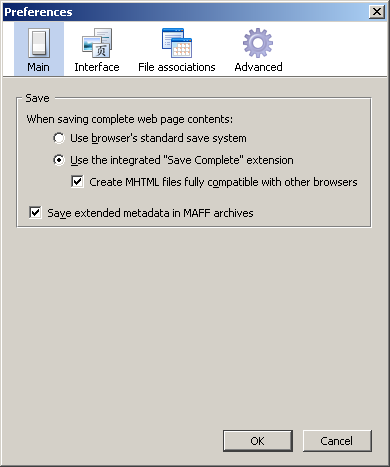
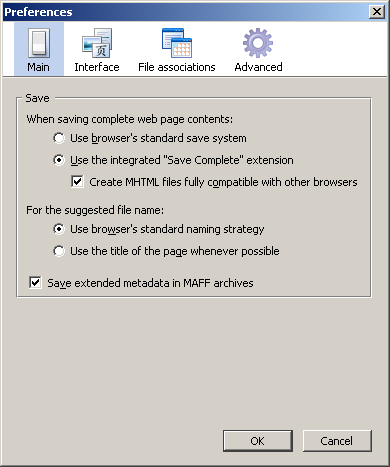
Update documentation for MAF version 0.16.1

Changed region(s): [[0.0308, 0.4197, 0.9538, 0.6595], [0.4308, 0.5396, 0.4615, 0.5696]]

diff --git a/www/documentation.html b/www/documentation.html
@@ -148,6 +148,8 @@
   <dt><a href="https://addons.mozilla.org/firefox/addon/834">File Title</a>, by
    Pavel Cvrcek</dt>
   <dd>
+    <p><i>The functionality of the File Title extension is also available from
+     the MAF <a href="#main">preferences</a>.</i></p>
     <p>This extension replaces the default file name suggested in the <i>Save
      As</i> dialog box with the title of the page being saved.</p>
   </dd>
@@ -158,6 +160,11 @@
      behavior and adds a new item in the <b>File</b> menu to use the title of
      the page instead of the file name in the <i>Save As</i> dialog box.</p>
     <p>You can use the new command to save MAFF and MHTML archives too.</p>
+    <p>You may install this extension if you want to selectively use the page
+     title instead of the original file name. In this case, ensure that the
+     default browser's naming strategy is selected in the MAF
+     <a href="#main">preferences</a>, otherwise the title of the page might be
+     used in all cases.</i></p>
   </dd>
   <dt><a href="https://addons.mozilla.org/firefox/addon/8051">UnMHT</a>, by
    Arai</dt>
@@ -392,6 +399,26 @@
      Save Complete component. If the Save Complete component is disabled, only
      the MAF-specific MHTML variant is available.</p>
   </dd>
+  <dt>For the suggested file name:</dt>
+  <dd>
+    <p>This preference controls which method is used to select the default file
+     name in the <i>Save As</i> dialog box.</p>
+    <ol>
+      <li><b>Use browser's standard naming strategy</b> (default) - With this
+       setting, the Mozilla Archive Format extension does not alter the current
+       behavior, which is determined by the browser or by
+       <a href="#extensions">other installed extensions</a>. If no other
+       extension affecting this behavior is installed, the original name of the
+       file will be preferred to the title of the page.</li>
+      <li><b>Use the title of the page whenever possible</b> - With this
+       setting, the title of the page will be preferred to the original file
+       name. This is done for all HTML and XHTML pages, unless the server you
+       are downloading the page from explicitly asked the browser to use a
+       specific file name. Note that if <a href="#extensions">other
+       extensions</a> affecting this behavior are installed, this setting may
+       not work as expected.</li>
+    </ol>
+  </dd>
   <dt>Save extended metadata in MAFF archives</dt>
   <dd>
     <p>With this preference enabled, additional page information such as
@@ -533,6 +560,14 @@ changed unless there is a specific reason, and non-default settings may
 adversely impact functionality or performance.</p>
 
 <dl>
+  <dt><tt>extensions.maf.open.maff.ignorecharacterset</tt></dt>
+  <dd>
+    <p>When this setting is enabled, the character set specified for pages saved
+     inside MAFF archives is ignored, instead of being enforced when the page is
+     displayed. Enabling this option may be useful to troubleshoot
+     internationalization issues, but will cause saved pages to be displayed
+     incorrectly in most cases.</p>
+  </dd>
   <dt><tt>extensions.maf.save.maff.compression</tt></dt>
   <dd>
     <p>Controls the compression level to use when saving files in a MAFF
